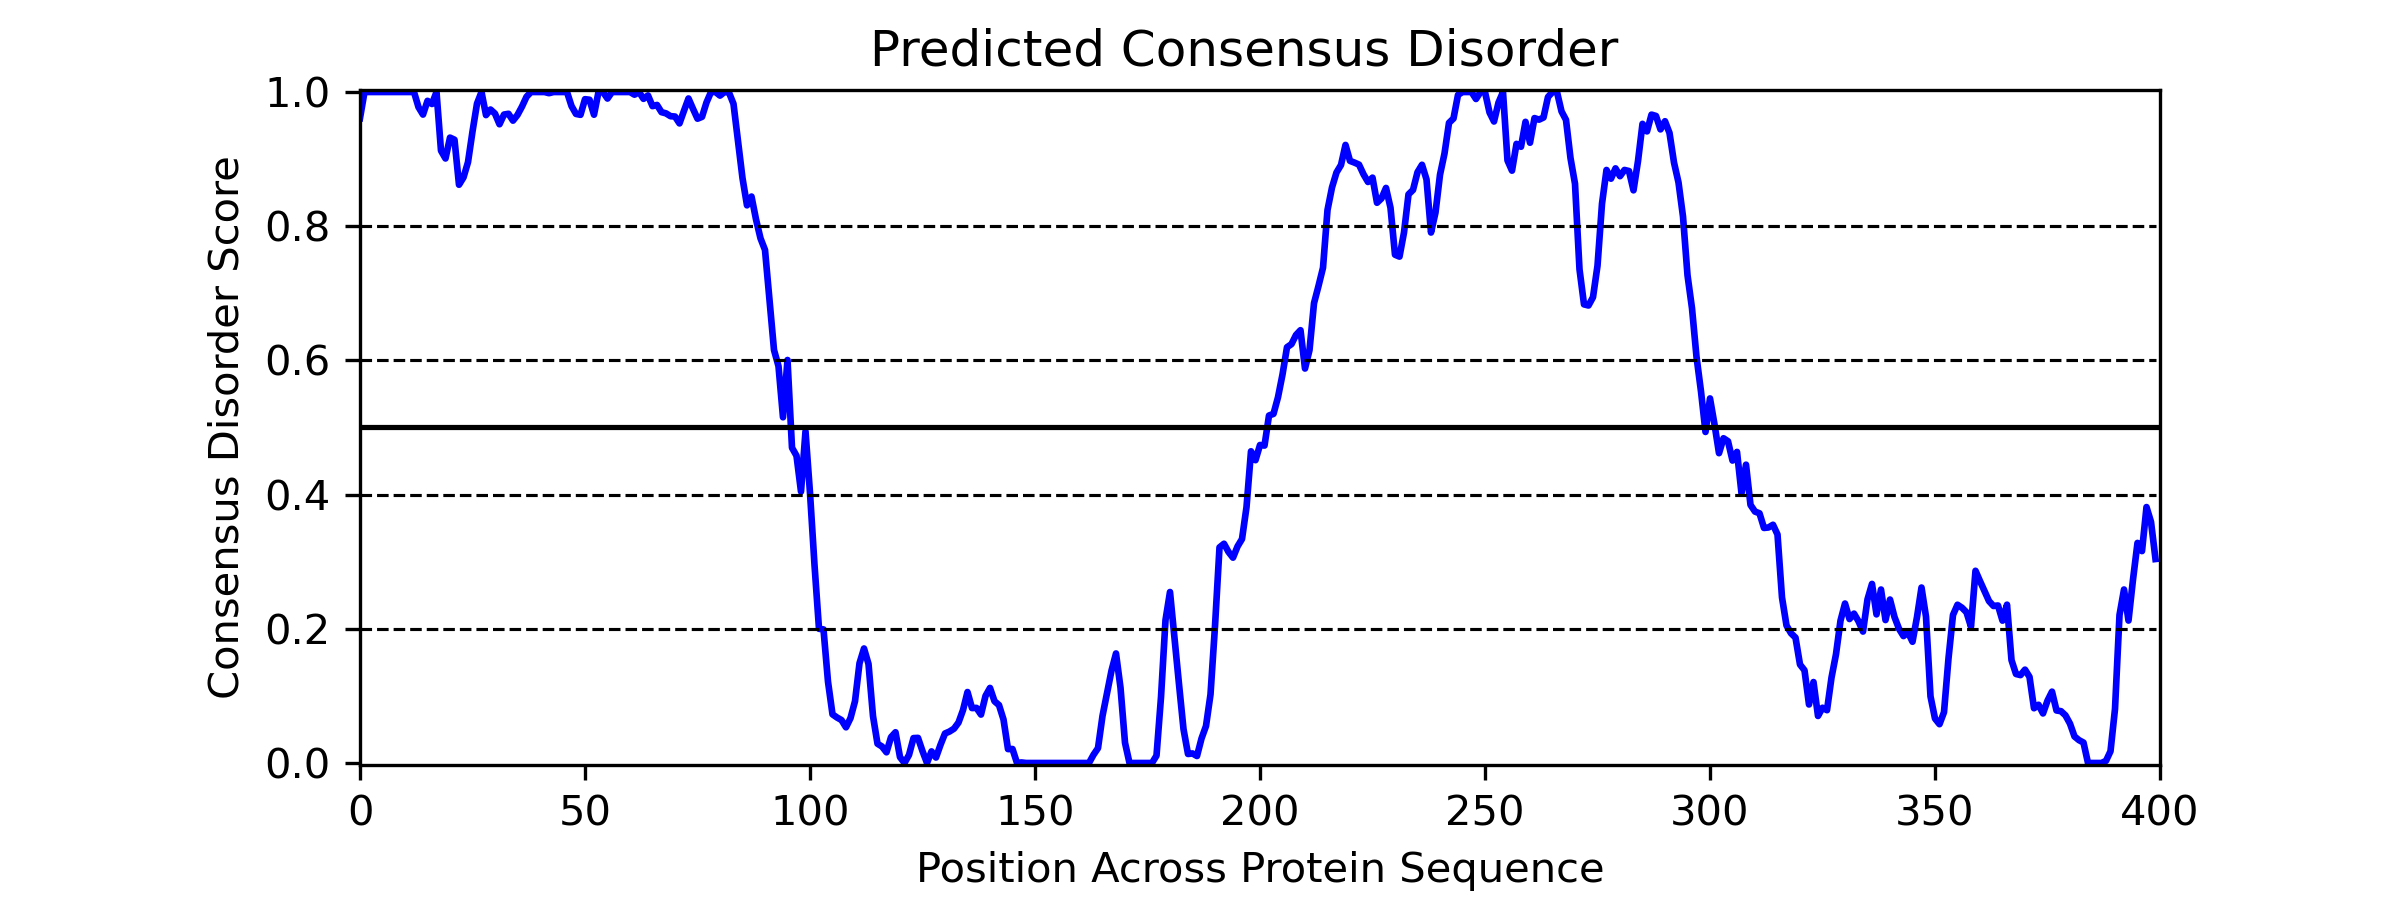
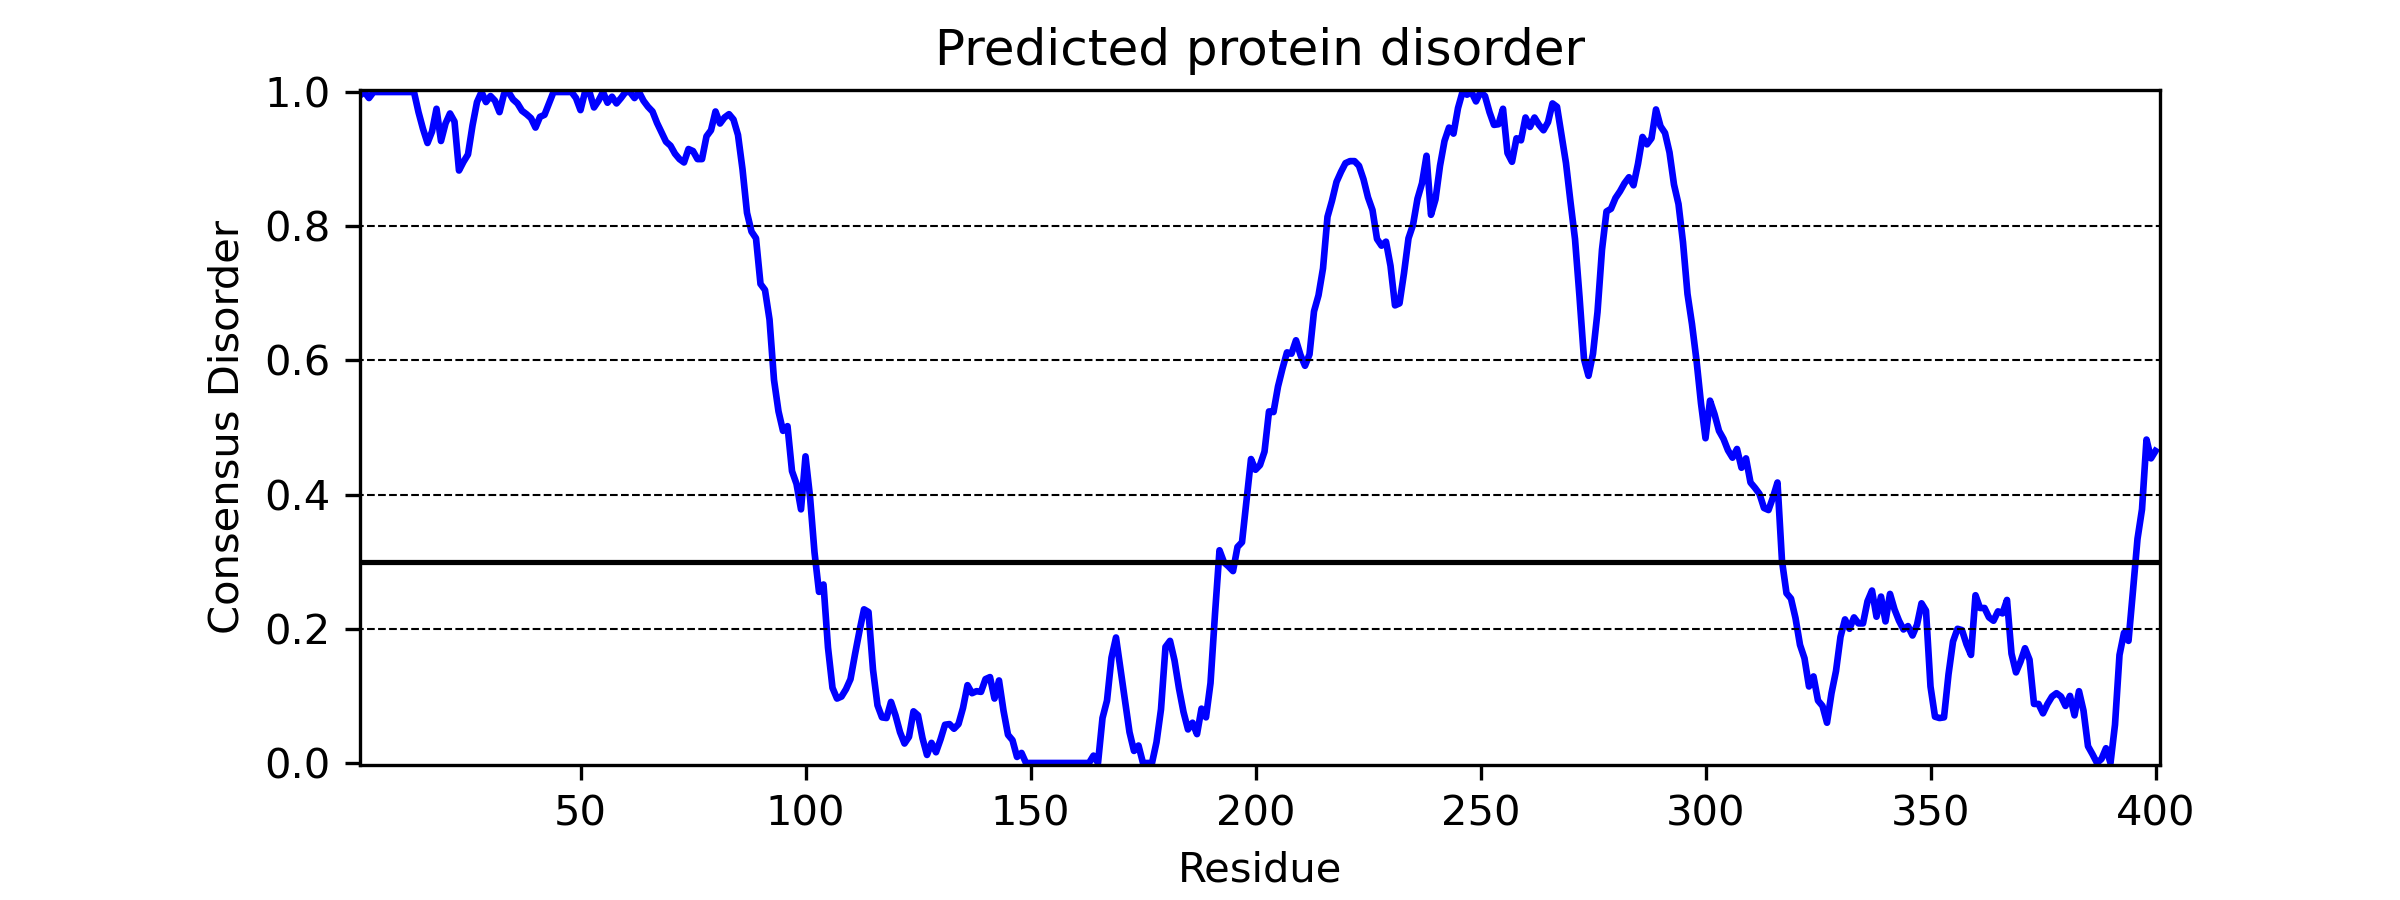
fixed minor issues in docs

diff --git a/docs/usage/using-in-python.rst b/docs/usage/using-in-python.rst
@@ -54,7 +54,7 @@ would output -
 **Additional Usage:**
 
 **Changing title of generated graph -**
-There are two parameters that the user can change for graph_disorder. The first is the name of the title for the generated graph. The name by default is blank and the title of the graph is simply *Predicted protein disorder*. However, the title can be specified by specifing *title* = "my cool title" would result in a title of *my cool title*. Running - 
+There are two parameters that the user can change for graph_disorder(). The first is the name of the title for the generated graph. The name by default is blank and the title of the graph is simply *Predicted protein disorder*. However, the title can be specified by specifing *title* = "my cool title" would result in a title of *my cool title*. Running - 
 
 .. code-block:: python
 
@@ -122,9 +122,9 @@ would output -
 
 .. code-block:: python
 
-	44.1
+	82.39999
 
-By default, this uses a cutoff predicted value of equal to or greater than 0.3 for a residue to be considered disordered, and rounds to one decimal place.
+By default, this uses a cutoff predicted value of equal to or greater than 0.3 for a residue to be considered disordered.
 
 **Additional Usage:**
 
@@ -207,7 +207,7 @@ By using the ``predict_disorder_uniprot()`` function, you can return predicted c
 Generating Graphs From a .fasta File:
 -------------------------------------
 
-By using the ``graph_disorder_fasta`` function, you can graph predicted consensus disorder values for the amino acid sequences in a .fasta file. The *graph_disorder_fasta* function takes a .fasta file as input and by default will return the graphs immediately. However, you can specify *output_dir=path_to_save_files* which result in a a .png file saved to that directory for every sequence within the .fasta file. You cannot specify the output file name here! By default, the file name will be the first 14 characters of the FASTA header followed by the filetype as specified by filetype. If you wish for the files to include a unique leading number (i.e. X_rest_of_name where X starts at 1 and increments) then set *indexed_filenames = True*. This can be useful if you have sequences where the 1st 14 characters may be identical, which would otherwise overwrite an output file. By default this will return a single graph for every sequence in the FASTA file. 
+By using the ``graph_disorder_fasta()`` function, you can graph predicted consensus disorder values for the amino acid sequences in a .fasta file. The *graph_disorder_fasta* function takes a .fasta file as input and by default will return the graphs immediately. However, you can specify *output_dir=path_to_save_files* which result in a .png file saved to that directory for every sequence within the .fasta file. You cannot specify the output file name here! By default, the file name will be the first 14 characters of the FASTA header followed by the filetype as specified by filetype. If you wish for the files to include a unique leading number (i.e. X_rest_of_name where X starts at 1 and increments) then set *indexed_filenames = True*. This can be useful if you have sequences where the 1st 14 characters may be identical, which would otherwise overwrite an output file. By default this will return a single graph for every sequence in the FASTA file. 
 
 **WARNING -**
 This command will generate a graph for ***every*** sequence in the .fasta file. If you have 1,000 sequences in a .fasta file and you do not specify the *output_dir*, it will generate **1,000** graphs that you will have to close sequentially. Therefore, I recommend specifying the *output_dir* such that the output is saved to a dedicated folder.
@@ -267,7 +267,7 @@ By using the ``graph_disorder_uniprot()`` function, you can graph predicted cons
 
     meta.graph_disorder_uniprot("Q8N6T3")
 
-This function carries all of the same functionality as ``graph_disorder`` including specifying disorder_threshold, title of the graph, the DPI, and whether or not to save the output.
+This function carries all of the same functionality as ``graph_disorder()`` including specifying disorder_threshold, title of the graph, the DPI, and whether or not to save the output.
 
 **Example**
 
@@ -338,7 +338,7 @@ The minimum folded domain size defines where we expect the limit of small folded
 	meta.predict_disorder_domains("MKAPSNGFLPSSNEGEKKPINSQLWHACAGPLV", minimum_folded_domain = 60)
 
 **Altering gap_closure -**
-The gap closure defines the largest gap that would be closed. Gaps here refer to a scenario in which you have two groups of disordered residues seprated by a 'gap' of not disordered residues. In general large gap sizes will favour larger contigous IDRs. It's worth noting that gap_closure becomes relevant only when minimum_region_size becomes very small (i.e. < 5) because really gaps emerge when the smoothed disorder fit is "noisy", but when smoothed gaps are increasingly rare. Default=10.
+The gap closure defines the largest gap that would be closed. Gaps here refer to a scenario in which you have two groups of disordered residues seprated by a 'gap' of not disordered residues. In general large gap sizes will favour larger contiguous IDRs. It's worth noting that gap_closure becomes relevant only when minimum_region_size becomes very small (i.e. < 5) because really gaps emerge when the smoothed disorder fit is "noisy", but when smoothed gaps are increasingly rare. Default=10.
 
 **Example**
 

diff --git a/docs/getting_started.rst b/docs/getting_started.rst
@@ -4,21 +4,21 @@ Getting Started with metapredict
 
 What is metapredict?
 ====================
-**metapredict** is a software tool to predict intrinicallydisordered regions in protein sequences. It is provided as a downloadable Python tool that includes a Python application programming interface (API) and a set of command-line tools for working with FASTA files. 
+**metapredict** is a software tool to predict intrinically disordered regions in protein sequences. It is provided as a downloadable Python tool that includes a Python application programming interface (API) and a set of command-line tools for working with FASTA files. 
 
-Our goal in building **metapredict** was to develop a robust, accurate, and high-performance predictor of intrinsic disorder that is also easy to install and use. As such, **metapredict** is implemented in Python be installed directly via `pip` (see below).
+Our goal in building **metapredict** was to develop a robust, accurate, and high-performance predictor of intrinsic disorder that is also easy to install and use. As such, **metapredict** is implemented in Python and can be installed directly via `pip` (see below).
 
 This already seems complicated...
 -----------------------------------
-As well as providing a set of high-performance software tools, **metapredict** is provided as a stand-alone webserver which can predict disorder profiles, scores, and contagious IDRs for single sequences.
+As well as providing a set of high-performance software tools, **metapredict** is provided as a stand-alone webserver which can predict disorder profiles, scores, and contiguous IDRs for single sequences.
 
 To access the webserver go to `metapredict.net <http://metapredict.net/>`_. 
 
 How does metapredict work?
 ===========================
-**metapredict** is a bit different than your typical protein disorder predictor. Instead of predicting the percent chance that a residue within a sequence might be disordered, **metapredict** tries to predict the *consensus disorder* score for the residue. Consensus disorder reports on the fraction of independent disorder predictors that would predict a given residue is disordered.
+**metapredict** is a bit different than your typical protein disorder predictor. Instead of predicting the percent chance that a residue within a sequence might be disordered, **metapredict** tries to predict the *consensus disorder* score for the residue. Consensus disorder reports on the fraction of independent disorder predictors that would predict a given residue as disordered.
 
-**metapredict** is a deep-learning-based predictor trained on consensus disorder data from 8 different predictors, as pre-computed and provided by `MobiDB <https://mobidb.bio.unipd.it/>`_. Functionally, this means each residue is assigned a score between 0 and 1 which reflects the confidence we have that the residue is disordered (or not). If the score was 0.5, this means half of the predictors predict that residue to be disordered. In this way, **metapredict** can help you quickly determine the likelihood that residues are disordered by giving you an approximations of what other predictors would predict (things got pretty 'meta' there, hence the name **metapredict**).
+**metapredict** is a deep-learning-based predictor trained on consensus disorder data from 8 different predictors, as pre-computed and provided by `MobiDB <https://mobidb.bio.unipd.it/>`_. Functionally, this means each residue is assigned a score between 0 and 1 which reflects the confidence we have that the residue is disordered (or not). If the score was 0.5, this means half of the predictors predict that residue to be disordered. In this way, **metapredict** can help you quickly determine the likelihood that residues are disordered by giving you an approximation of what other predictors would predict (things got pretty 'meta' there, hence the name **metapredict**).
 
 Why is metapredict useful?
 ===========================
@@ -53,7 +53,7 @@ Below we include documentation on known issues.
 macOS libiomp clash 
 ^^^^^^^^^^^^^^^^^^^^^
 
-PyTorch current ships with its own version of the OpenMP library (``libiomp.dylib``). Unfortunately when numpy is installed from ``conda`` (although not from ``pip``) this leads to a collision because the ``conda``-derived numpy library also includes a local copy of the ``libiomp5.dylib`` library. This leads to the following error message (included here for google-ability).
+PyTorch currently ships with its own version of the OpenMP library (``libiomp.dylib``). Unfortunately when numpy is installed from ``conda`` (although not from ``pip``) this leads to a collision because the ``conda``-derived numpy library also includes a local copy of the ``libiomp5.dylib`` library. This leads to the following error message (included here for google-ability).
 
 .. code-block:: none 
 

diff --git a/docs/usage/command-line.rst b/docs/usage/command-line.rst
@@ -97,7 +97,7 @@ If you would like to index the file names with a leading unique integer starting
 
     $ metapredict-graph-disorder /Users/thisUser/Desktop/interestingProteins.fasta -o /Users/thisUser/Desktop/DisorderGraphsFolder/ --indexed-filenames
 
-**Changing the disorder threshhold line on the graph -**
+**Changing the disorder threshold line on the graph -**
 If you would like to change the disorder threshold line plotted on the graph, use the ``--disorder-threshold`` flag followed by some value between 0 and 1. Default is 0.3.
 
 **Example**
@@ -128,7 +128,7 @@ Quick Graphing
 Graphing using Uniprot ID
 --------------------------
 
-``metapredict-uniprot`` is a command that will let you input any Uniprot ID and get a plot of the disorder for the corresponding protein. The default behavior is to have a plot automatically appear. Apart from the Uniprot ID which is required for this command, the command has four possible additional *optional* arguments, 1. DPI can be changed with the ``-D``  or ``--dpi`` flags, default is 150 DPI, 2. Using ``-o``  or ``--ourput-file`` will save the plot to a specified directory (default is current directory) - filenames and file extensions (pdf, jpg, png, etc) can be specified here. If there is no file name specified, it will save as the Uniprot ID and as a .png, 3. ``-t``  or ``--title`` will let you specify the title of the plot. By defualt the title will be *Disorder for* followed by the Uniprot ID.
+``metapredict-uniprot`` is a command that will let you input any Uniprot ID and get a plot of the disorder for the corresponding protein. The default behavior is to have a plot automatically appear. Apart from the Uniprot ID which is required for this command, the command has three possible additional *optional* arguments, 1. DPI can be changed with the ``-D``  or ``--dpi`` flags, default is 150 DPI, 2. Using ``-o``  or ``--output-file`` will save the plot to a specified directory (default is current directory) - filenames and file extensions (pdf, jpg, png, etc) can be specified here. If there is no file name specified, it will save as the Uniprot ID and as a .png, 3. ``-t``  or ``--title`` will let you specify the title of the plot. By defualt the title will be *Disorder for* followed by the Uniprot ID.
 
 **Example:**
 
